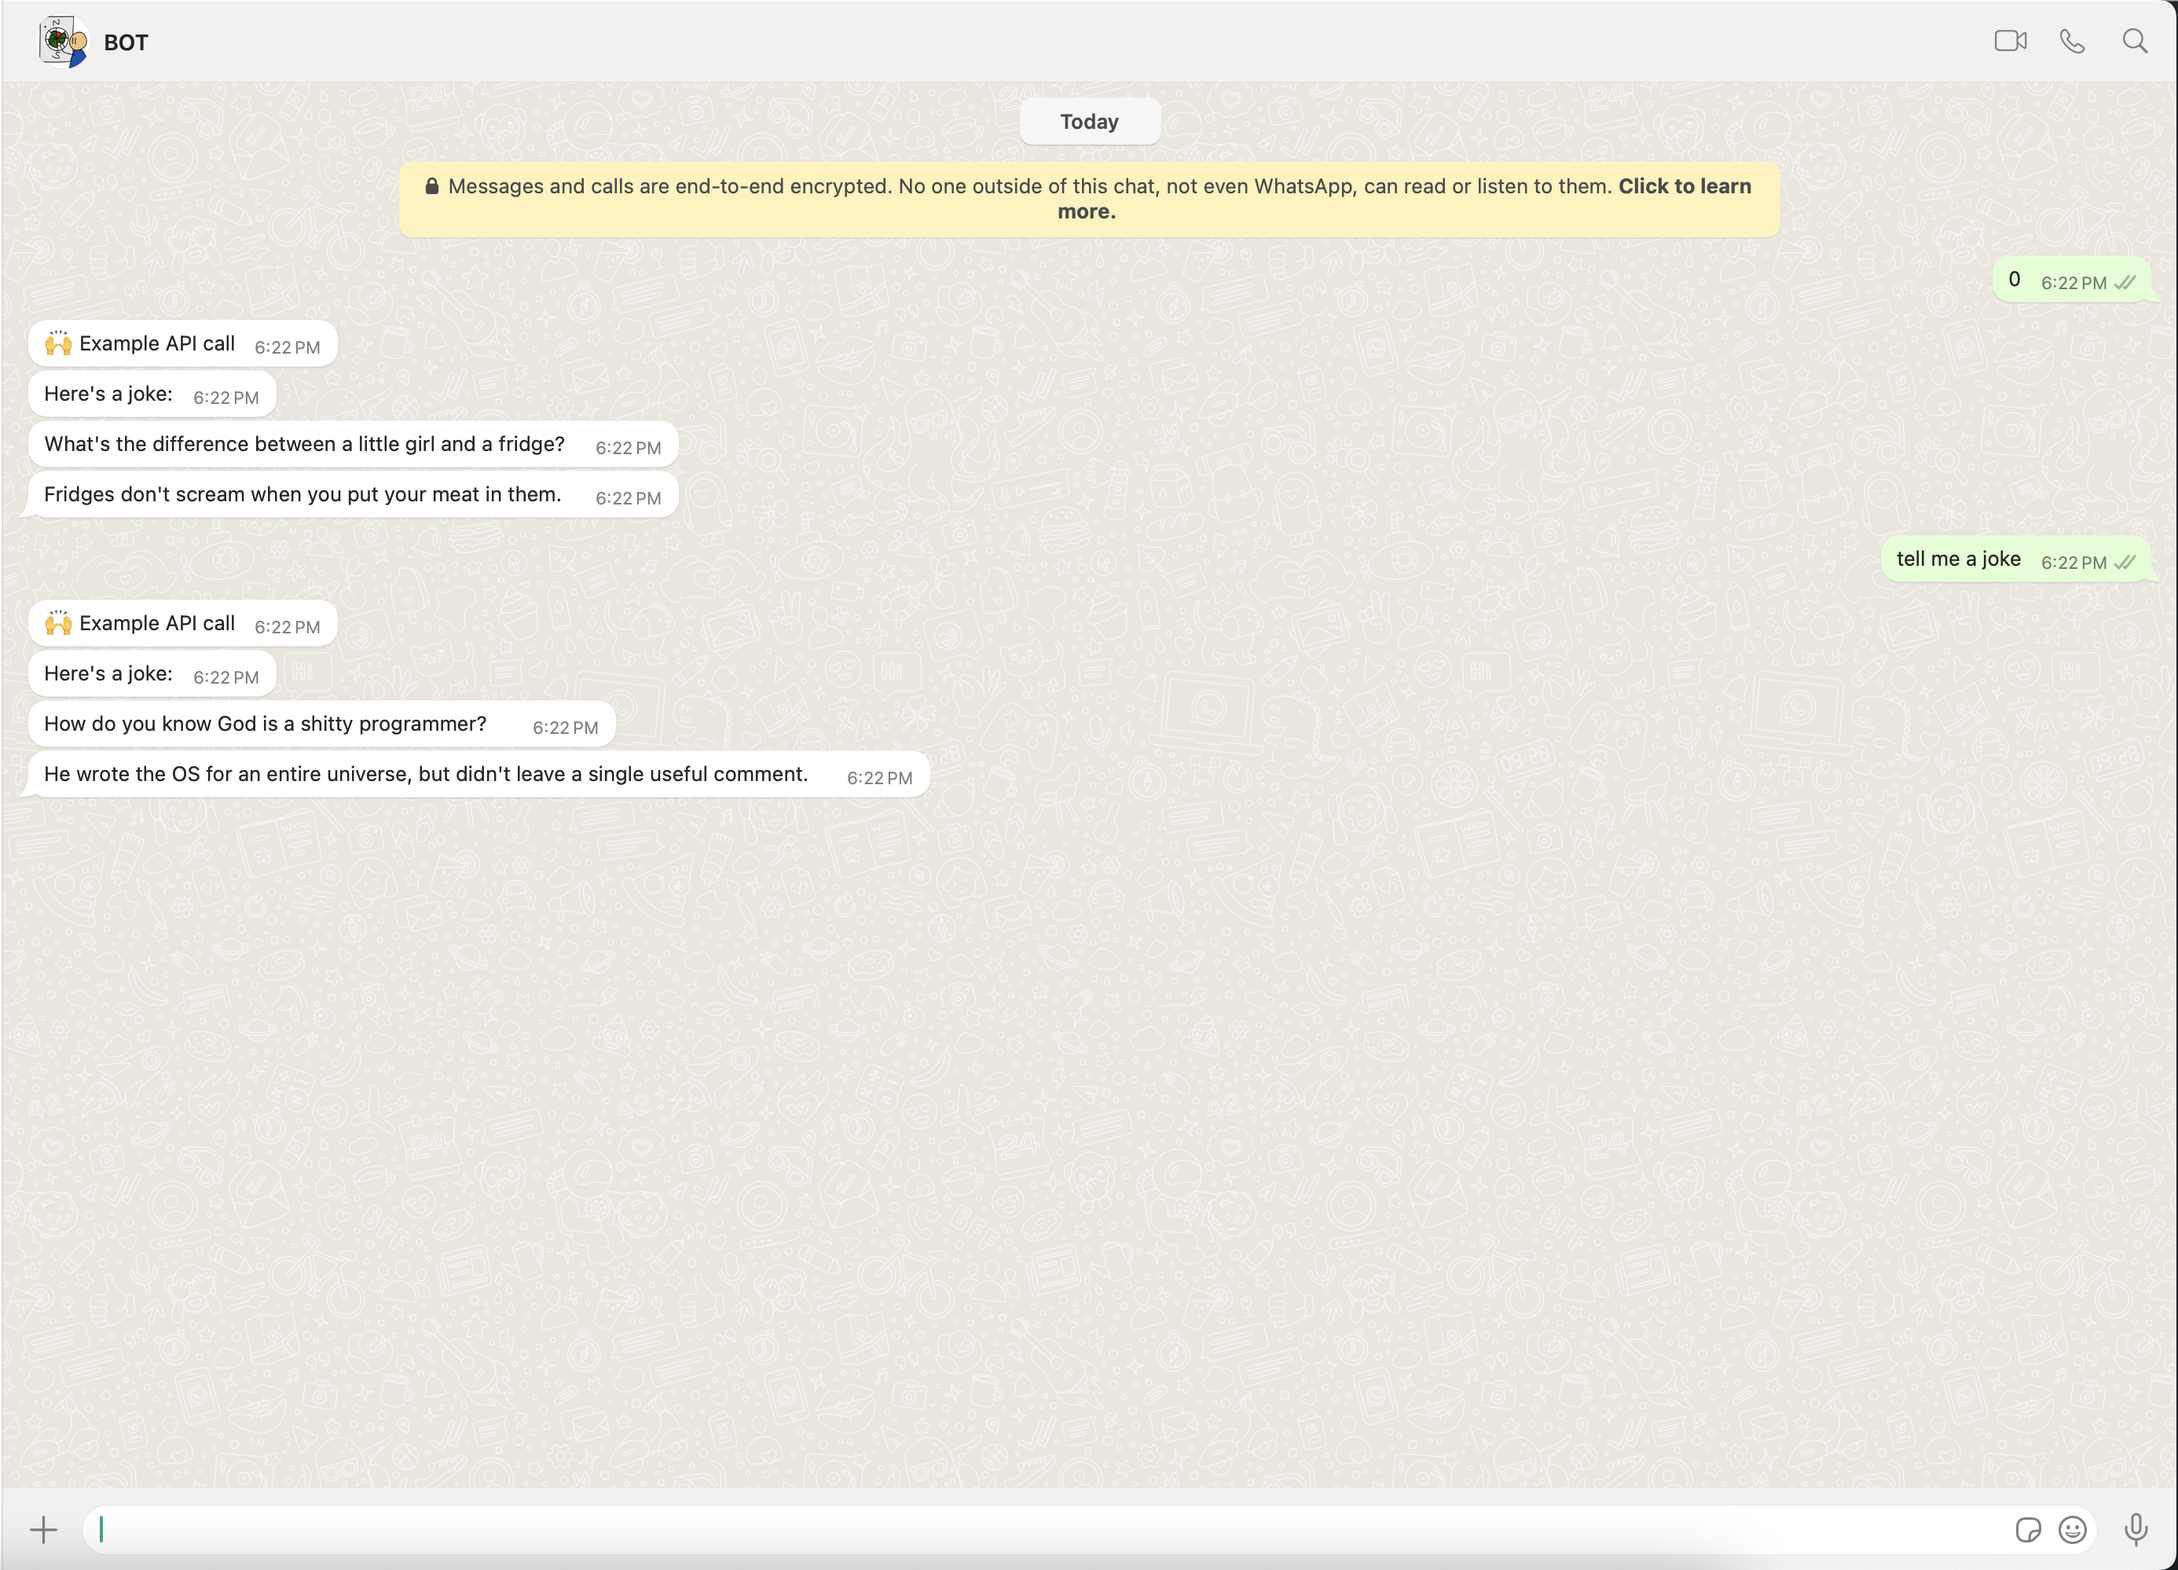
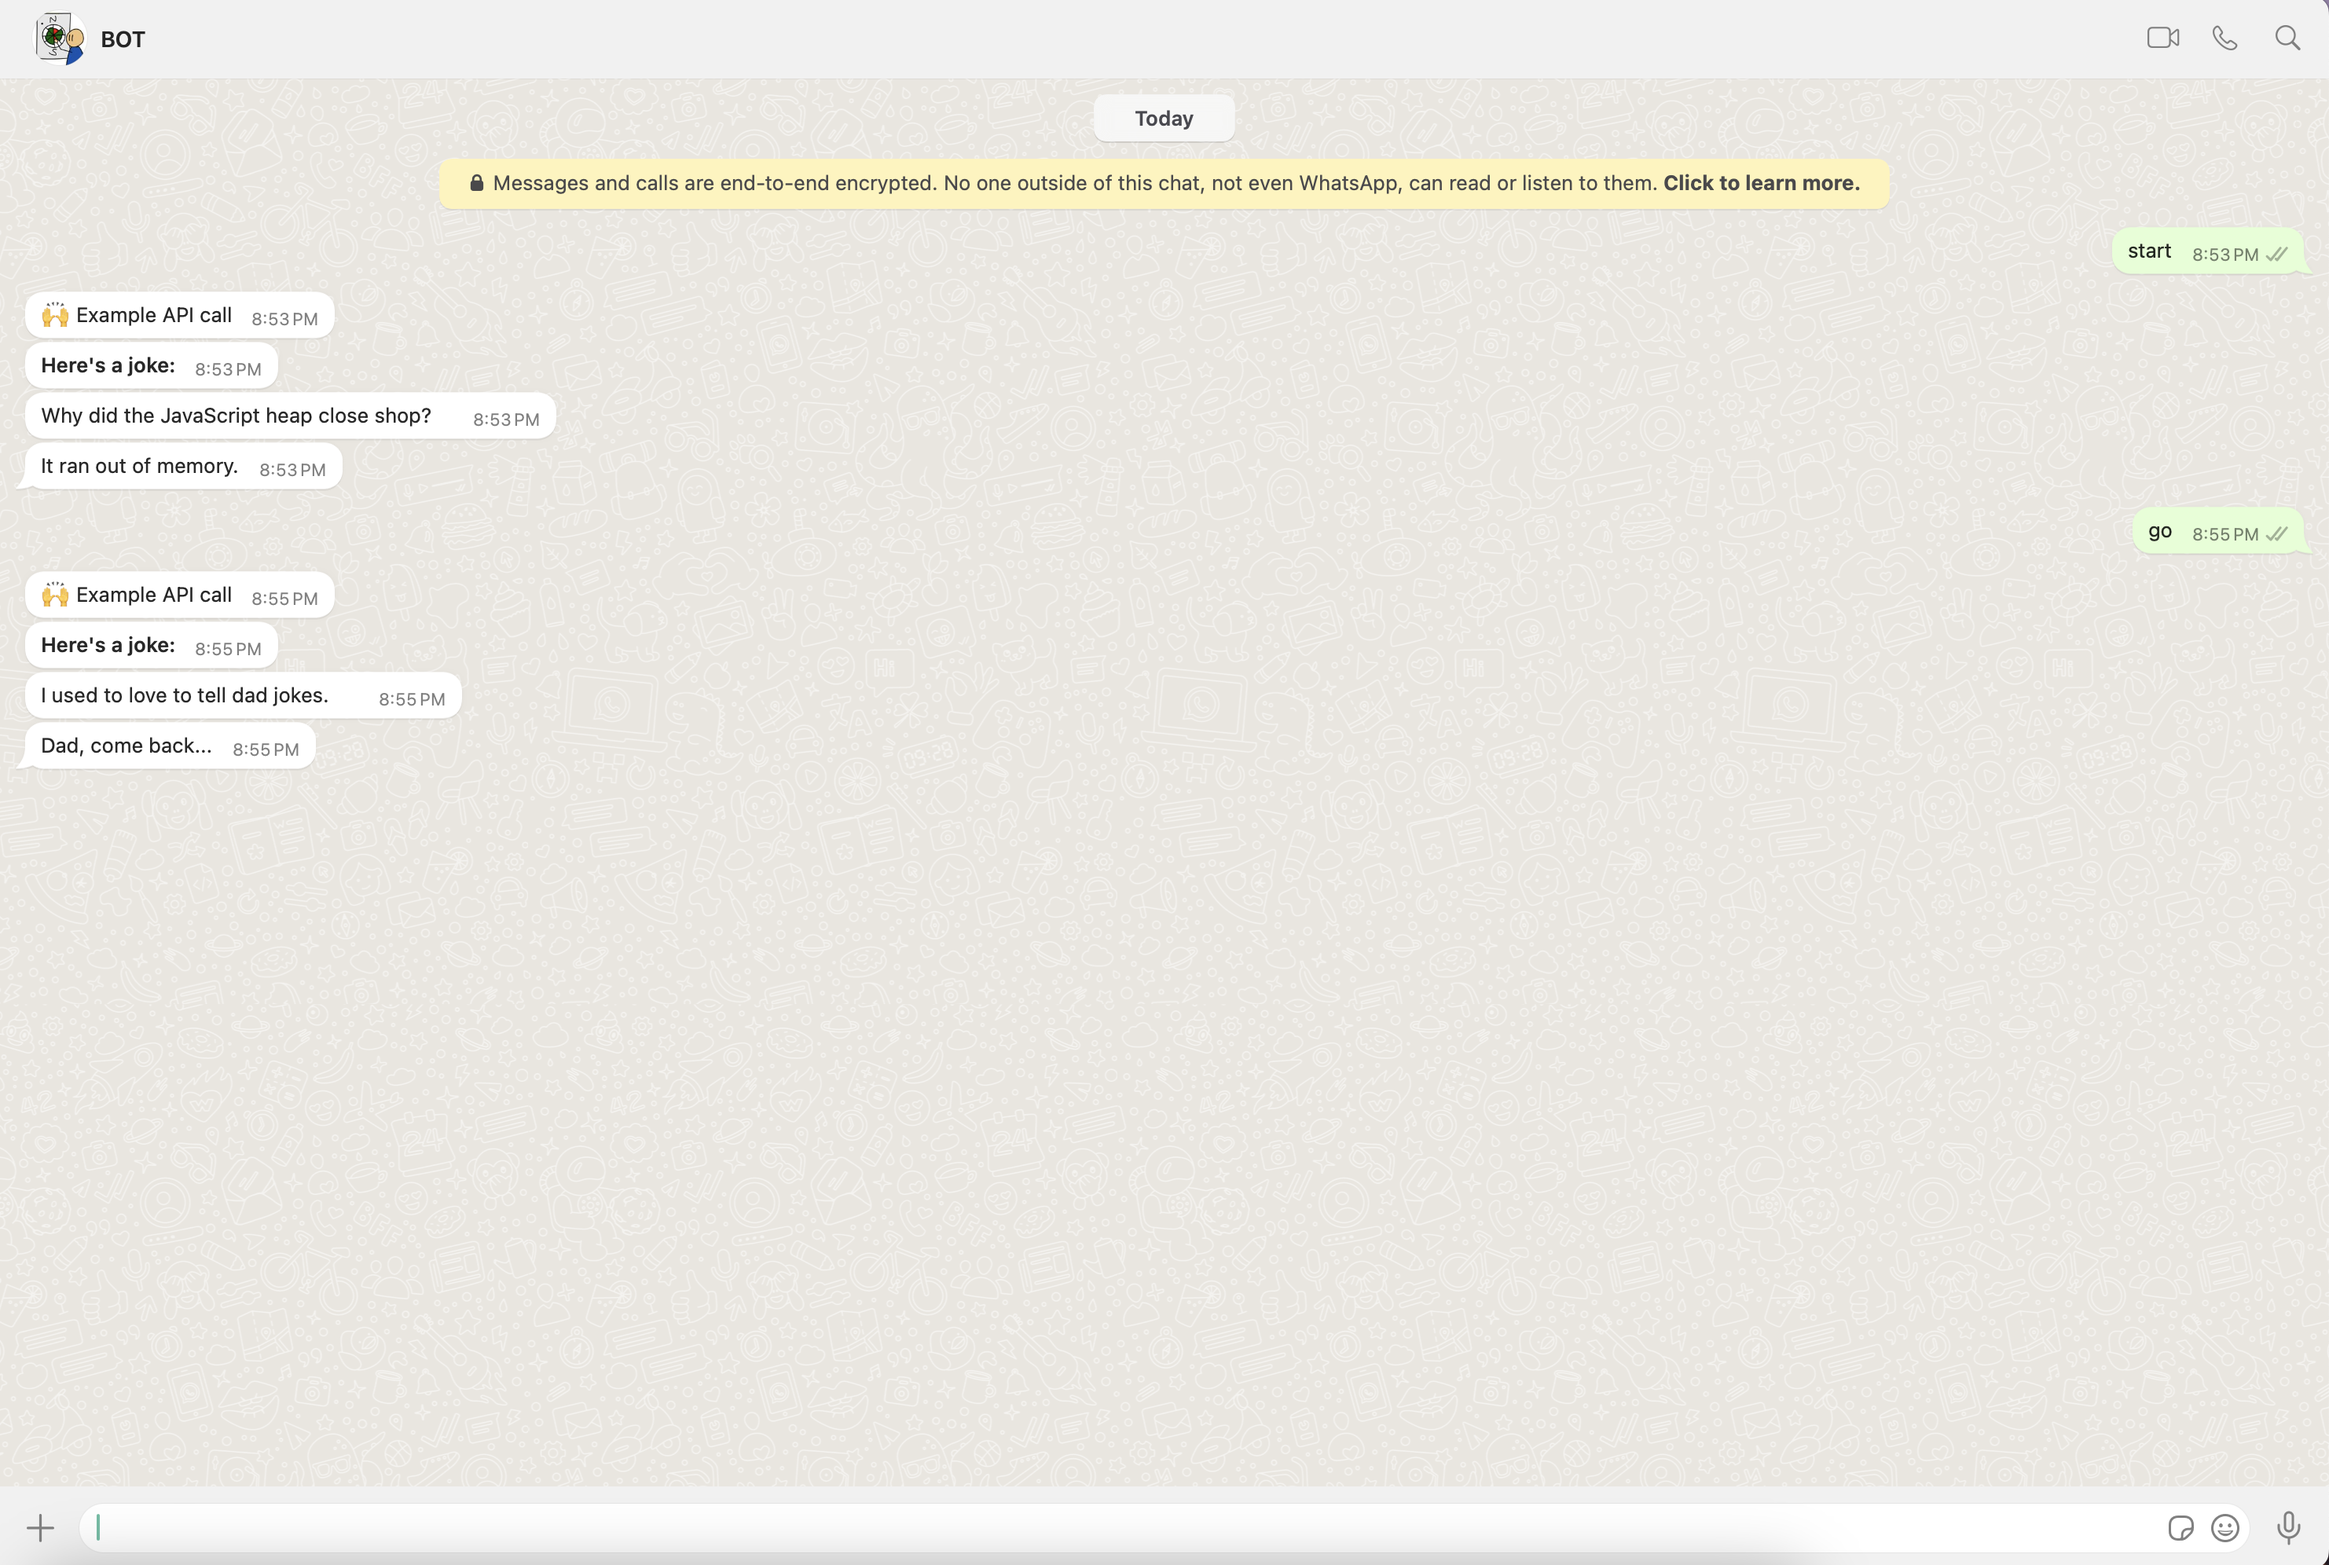
State example added, api  remove bad joke

diff --git a/state/app.ts b/state/app.ts
@@ -1,0 +1,79 @@
+import { createBot, createProvider, createFlow, addKeyword, utils, EVENTS } from '@builderbot/bot'
+import { MemoryDB as Database } from '@builderbot/bot'
+import { BaileysProvider as Provider } from '@builderbot/provider-baileys'
+import { config } from 'dotenv'
+config()
+
+const PHONE_NUMBER = process.env.PHONE_NUMBER
+const PORT = process.env.PORT ?? 3008
+
+const flowInfo = addKeyword<Provider, Database>(EVENTS.ACTION)
+    .addAnswer(
+        'Your info:',
+        null,
+        async (_, { flowDynamic, state }) => {
+            const data = state.getMyState()
+            await flowDynamic(`*Name:* ${data.name}\n*Email:* ${data.email}`)
+        }
+    )
+
+const welcomeFlow = addKeyword<Provider, Database>(EVENTS.WELCOME)
+    .addAnswer(`🙌 Example state`)
+    .addAnswer(
+        "What's your name ? ",
+        { capture: true },
+        async (ctx, { state }) => {
+            await state.update({ name: ctx.body })
+        }
+    )
+    .addAnswer("What's your email ? ",
+        { capture: true },
+        async (ctx, { state, gotoFlow }) => {
+            await state.update({ email: ctx.body })
+            return gotoFlow(flowInfo)
+        }
+    )
+
+const main = async () => {
+    const adapterFlow = createFlow([welcomeFlow, flowInfo])
+
+    const adapterProvider = createProvider(Provider, { usePairingCode: true, phoneNumber: PHONE_NUMBER })
+    const adapterDB = new Database()
+
+    const { handleCtx, httpServer } = await createBot({ flow: adapterFlow, provider: adapterProvider, database: adapterDB, })
+
+
+    httpServer(+PORT)
+
+    adapterProvider.http.server.post(
+        '/v1/messages',
+        handleCtx(async (bot, req, res) => {
+            const { number, message, urlMedia } = req.body
+            await bot.sendMessage(number, message, { media: urlMedia ?? null })
+            return res.end('sended')
+        })
+    )
+
+    adapterProvider.http.server.post(
+        '/v1/register',
+        handleCtx(async (bot, req, res) => {
+            const { number, name } = req.body
+            await bot.dispatch('REGISTER_FLOW', { from: number, name })
+            return res.end('trigger')
+        })
+    )
+
+    adapterProvider.http.server.post(
+        '/v1/blacklist',
+        handleCtx(async (bot, req, res) => {
+            const { number, intent } = req.body
+            if (intent === 'remove') bot.blacklist.remove(number)
+            if (intent === 'add') bot.blacklist.add(number)
+
+            res.writeHead(200, { 'Content-Type': 'application/json' })
+            return res.end(JSON.stringify({ status: 'ok', number, intent }))
+        })
+    )
+}
+
+main()

diff --git a/app.ts b/app.ts
@@ -48,7 +48,7 @@ const registerFlow = addKeyword<Provider, Database>(utils.setEvent('REGISTER_EVE
 
 const main = async () => {
     const adapterFlow = createFlow([welcomeFlow, registerFlow])
-    
+
     const adapterProvider = createProvider(Provider)
     const adapterDB = new Database()
 

diff --git a/state/README.md b/state/README.md
@@ -1,0 +1,29 @@
+<p align="center">
+  <a href="https://builderbot.vercel.app/">
+    <picture>
+      <img src="https://i.imgur.com/OPl026Z.png" height="80">
+    </picture>
+    <h2 align="center">BuilderBot</h2>
+  </a>
+</p>
+
+<p align="center">
+  <a aria-label="NPM version" href="https://www.npmjs.com/package/@builderbot/bot">
+    <img alt="" src="https://img.shields.io/npm/v/@builderbot/bot?color=%2300c200&label=%40bot-whatsapp">
+  </a>
+  <a aria-label="Join the community on GitHub" href="https://link.codigoencasa.com/DISCORD">
+    <img alt="" src="https://img.shields.io/discord/915193197645402142?logo=discord">
+  </a>
+</p>
+
+## Example: state
+
+<p align="left">
+    <picture>
+      <img src="state.png" >
+    </picture>
+</p>
+
+## Documentation
+
+Visit [builderbot](https://builderbot.vercel.app/) to view the full documentation.

diff --git a/README.md b/README.md
@@ -500,6 +500,15 @@
 
 <hr>
 
+## Example: state
+
+<p align="left">
+  <a href="https://github.com/jorgechavarriaga/builder_bot_baileys_examples/tree/master/state">State</a>
+  <picture>
+      <img src="state.png" >
+    </picture>
+</p>
+
 ## Snippets for Builder BOT - Visual Studio Code
 
 <p>
